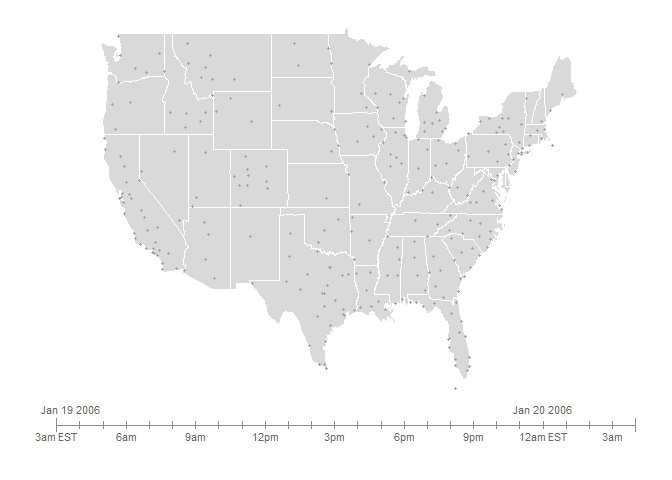
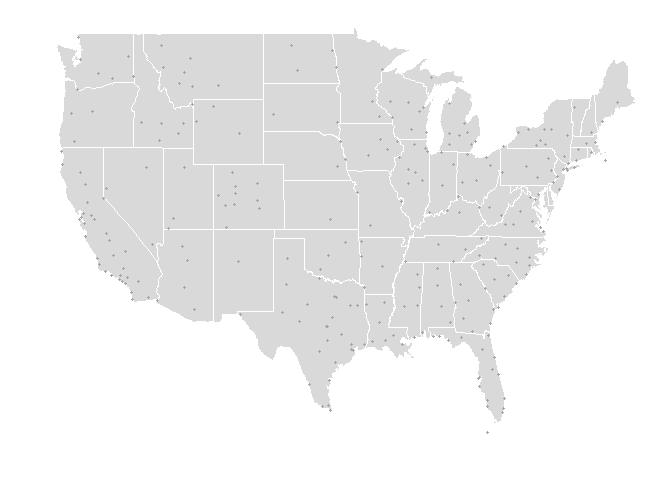
updated US flights - working gif - need to fix cancellations next

diff --git a/USflights.md b/USflights.md
@@ -7,11 +7,6 @@ A quick example of `gganimate` on US flights data. Inspired by example [here](ht
 
 No time to explain the code behind this *at the moment*
 
-<iframe src="https://giphy.com/embed/1hAsAJZ0NGt8rrxO5K" width="480" height="329" frameBorder="0" class="giphy-embed" allowFullScreen>
-</iframe>
-<p>
-<a href="https://giphy.com/gifs/youngertv-tvland-younger-tv-1hAsAJZ0NGt8rrxO5K">via GIPHY</a>
-</p>
 ... will explain ASAP!
 
 Load necessary packages
@@ -21,7 +16,7 @@ Load necessary packages
 library(tidyverse)
 ```
 
-    ## -- Attaching packages -------------------------------------------------------------------------------------------------------------------------------------- tidyverse 1.2.1 --
+    ## -- Attaching packages ----------------------------------------------------------------------------------------------------------------------------------------------------- tidyverse 1.2.1 --
 
     ## v ggplot2 3.1.0     v purrr   0.2.5
     ## v tibble  1.4.2     v dplyr   0.7.5
@@ -30,7 +25,7 @@ library(tidyverse)
 
     ## Warning: package 'ggplot2' was built under R version 3.5.1
 
-    ## -- Conflicts ----------------------------------------------------------------------------------------------------------------------------------------- tidyverse_conflicts() --
+    ## -- Conflicts -------------------------------------------------------------------------------------------------------------------------------------------------------- tidyverse_conflicts() --
     ## x dplyr::filter() masks stats::filter()
     ## x dplyr::lag()    masks stats::lag()
 
@@ -93,19 +88,20 @@ map.opts <- theme(panel.grid.minor=element_blank(),
 
 (usamap <- ggplot() + geom_polygon(aes(x=x, y=y), data= states, fill="grey85", colour="white") +
     map.opts + 
-    geom_point(aes(x=longitude, y=latitude), size=0.7, colour="grey65", data=subset(airports, (Volume > 1000) & (longitude >= -130) & (longitude <= -60) & (latitude >= 20) & (latitude <= 50))) +
+    geom_point(aes(x=longitude, y=latitude), size=0.7, colour="grey65", data=subset(airports, (Volume > 1000) & (longitude >= -130) & (longitude <= -60) & (latitude >= 20) & (latitude <= 50))) 
+  #+
     #   opts(legend.position="none") + 
-    geom_line(aes(x=x, y=y, group=id), data=slider, colour="grey55", size=0.25) +
-    geom_line(aes(x=x, y=y, group=id), data=ticks, colour="grey55", size=0.25) +
-    annotate("text", x=-130, y=22.8, label=c("Jan 19 2006"), colour="grey40", size=3, hjust=0.25, vjust=0) + 
-    annotate("text", x=-71.2, y=22.8, label=c("Jan 20 2006"), colour="grey40", size=3, hjust=0.5, vjust=0)  +
+    #geom_line(aes(x=x, y=y, group=id), data=slider, colour="grey55", size=0.25) +
+    #geom_line(aes(x=x, y=y, group=id), data=ticks, colour="grey55", size=0.25) +
+    #annotate("text", x=-130, y=22.8, label=c("Jan 19 2006"), colour="grey40", size=3, hjust=0.25, vjust=0) + 
+    #annotate("text", x=-71.2, y=22.8, label=c("Jan 20 2006"), colour="grey40", size=3, hjust=0.5, vjust=0)  +
     #   annotate("text", x=ticks$x[1], y=22.8, label=c("Sep 11 2001"), colour="grey40", size=3, hjust=0.25, vjust=0) + 
     #   annotate("text", x=ticks$x[nrow(ticks)-2], y=22.8, label=c("Sep 12 2001"), colour="grey40", size=3, hjust=0.5, vjust=0)  +
     #   annotate("text", x=ticks$x[1], y=22.8, label=c("Sep 14 2004"), colour="grey40", size=3, hjust=0.25, vjust=0) + 
     #   annotate("text", x=ticks$x[nrow(ticks)-2], y=22.8, label=c("Sep 15 2004"), colour="grey40", size=3, hjust=0.5, vjust=0)  +
     #   annotate("text", x=-130, y=22.8, label=c("Mar 13 1993"), colour="grey40", size=3, hjust=0.25, vjust=0) + 
     #   annotate("text", x=-71.2, y=22.8, label=c("Mar 14 1993"), colour="grey40", size=3, hjust=0.5, vjust=0)  +
-    geom_text(aes(x=x, y=y, label=c( "3am EST", "6am", "9am", "12pm", "3pm", "6pm", "9pm", "12am EST", "3am")), data=ticks[idx,], colour="grey40", size=3, hjust=0.5, vjust=1.25)  
+    #geom_text(aes(x=x, y=y, label=c( "3am EST", "6am", "9am", "12pm", "3pm", "6pm", "9pm", "12am EST", "3am")), data=ticks[idx,], colour="grey40", size=3, hjust=0.5, vjust=1.25)  
   
 )
 ```
@@ -193,24 +189,26 @@ getFlights <- function(df, tp, interval) {
 }
 ```
 
-The `gganimate` looking at flight delays from 9am to 9.40 am on Jan 19, 2006.
+The `gganimate` looking at flight delays from 06:30 to 24:00 on Jan 19, 2006.
 -----------------------------------------------------------------------------
 
 ``` r
-t1 <- getFlights(flights, 900,10)
-t2 <- getFlights(flights, 910,10)
-t3 <- getFlights(flights, 920,10)
-t4 <- getFlights(flights, 930,10)
+#######
 
+lag <- 2
+t_seq <- seq(630, 2400, by=lag)
 
+count <- 1
+res <- c()
 
-t1 <- cbind(t1, time =rep(900, nrow(t1)))
-t2 <- cbind(t2, time =rep(910, nrow(t2)))
-t3 <- cbind(t3, time =rep(920, nrow(t3)))
-t4 <- cbind(t4, time =rep(930, nrow(t4)))
-
-test <- rbind(t1,t2,t3,t4)
-res <- test
+for(i in t_seq){
+  dat <- getFlights(flights, i, lag)
+  dat <- cbind(dat, time =rep(i, nrow(dat)))
+  
+  res <- rbind(res, dat)
+  count <- count+1
+  
+}
 
 
 cancel <- subset(res, Cancelled==1)
@@ -246,11 +244,11 @@ q <- q +  ylim(c(21, 49.4)) + xlim(-130, -60) +
     
 q <- q + transition_reveal(along=time, id=id) +
   enter_fade() + 
-  exit_shrink()
+  exit_shrink() +
+  ease_aes('quintic-in')+
+  shadow_wake(wake_length = .2)
 
-animate(q, type="cairo", ref_frame=50)
+animate(q, type="cairo",  height = 776, width =1000)
 ```
 
 ![](USflights_files/figure-markdown_github/unnamed-chunk-3-1.gif)
-
-I don't quite think this is giving me what I want yet - but work in progress - stay tuned (not sure what the rogue super sonic speed points are doing)
